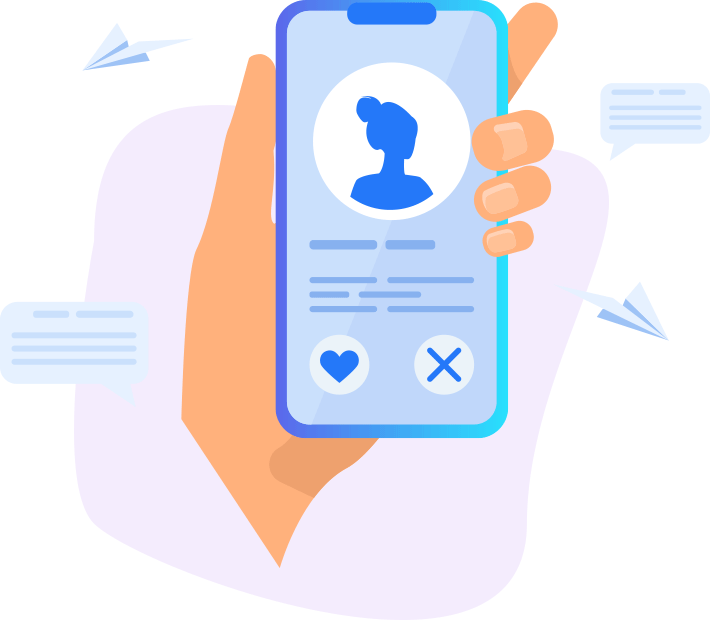
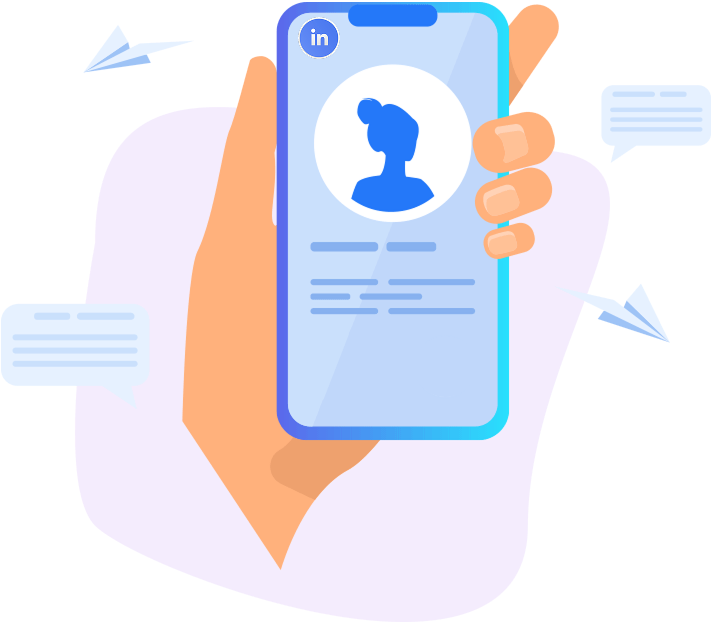
commit

diff --git a/index.html b/index.html
@@ -127,7 +127,7 @@ https://templatemo.com/tm-570-chain-app-dev
             <img src="assets/images/heading-line-dec.png" alt="">
             <p>O LinkedIn avalia perfis diariamente com base em 4 pilares.
                 <br>Quem domina esses critérios ganha mais visibilidade.
-                <br>Nosso método posiciona você nas primeiras posições.</p>
+                <br>Entregamos personalização que gera entrevistas.</p>
           </div>
         </div>
       </div>
@@ -235,7 +235,7 @@ https://templatemo.com/tm-570-chain-app-dev
     <div class="row">
       <div class="col-lg-8 offset-lg-2">
         <div class="section-heading">
-          <h4>Veja que os nossos clientes estão falando da <em>EVOLUA.VC</em></h4>
+          <h4>Veja o que as pessoas estão falando da <em>EVOLUA.VC</em></h4>
           <img src="assets/images/heading-line-dec.png" alt="">
           <p>O sucesso dos nossos clientes é a nossa meta principal e a certeza da assertividade da nossa metodologia.</p>
         </div>

diff --git a/assets/css/templatemo-chain-app-dev.css b/assets/css/templatemo-chain-app-dev.css
@@ -2225,7 +2225,7 @@ responsive
     margin-right: 0;
   }
   .main-banner .left-content p {
-    color: #000000;
+    color: #ffffff;
     margin-right: 0;
   }
   .main-banner .left-content .white-button a {
